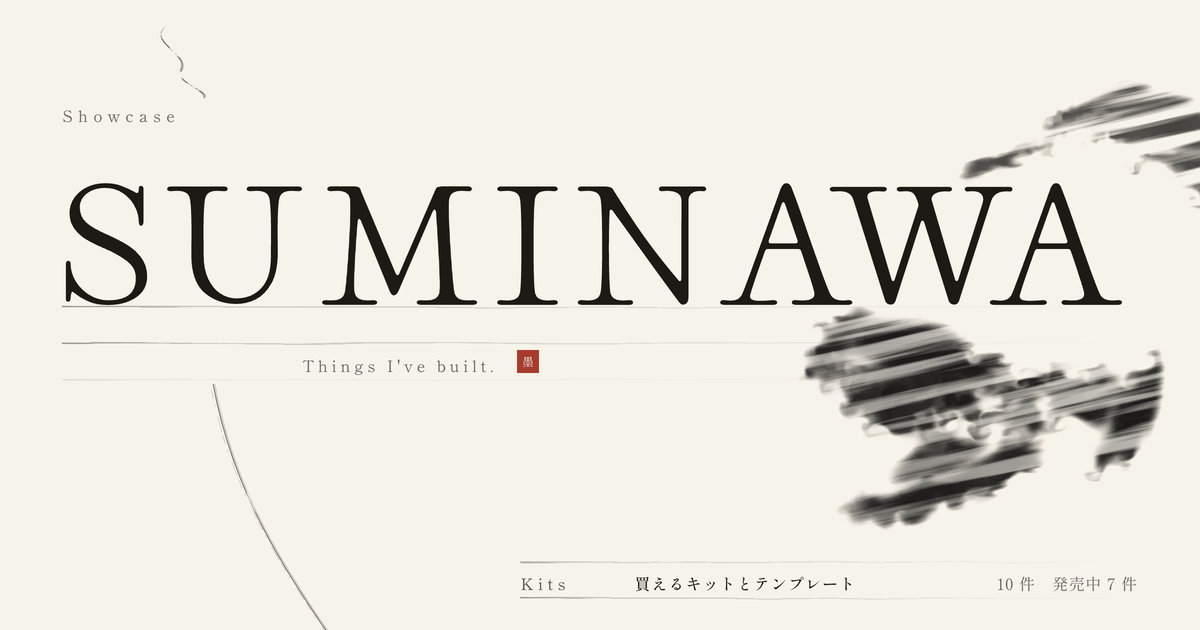
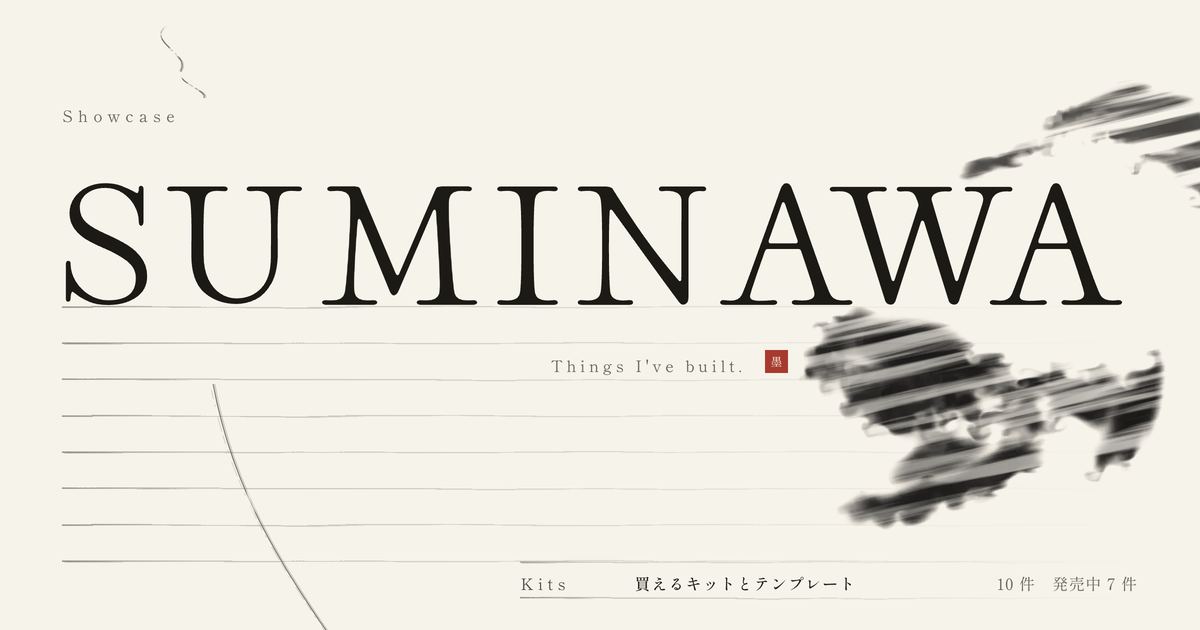
名乗りの帯の罫を入口の手前まで戻し、英文を墨の手前まで右へ送る
・名乗りの帯の罫（.mark::after）を、大字の足元から入口 3 行の手前まで
  紙幅いっぱいに敷き直した。下端の消え際で英文の行の下の罫が薄れて消えて
  いたのと、英文と入口のあいだが紙の地になっていたのを戻す
・英文と落款を、右上の墨の下の塊の手前ぎりぎりまで右へ送った
  （1280 で x=323 → 603、墨まで 15px）。768〜1920 の 5 幅で上限を測って
  直線で当てた。767 以下は左寄せのまま
・縦長の紙の /sites・/works で、字の欄が 130px ほどに痩せていたのを直した
  （図版の欄を空ける規則の詳細度が高く、一列に戻す規則を上書きしていた）

罫の密度: 字の無い罫が続く最長は トップ 1280 で 4 本・390 で 3 本
（公開中の元のハブは 4 本・4 本）。
英文と落款の字の箱に乗る墨の画素は 10 幅すべてで 0。

diff --git a/src/app/ryoushi.module.css b/src/app/ryoushi.module.css
@@ -668,24 +668,25 @@
  *   字の来ない所には引かない。
  */
 .mark::after {
-  /* 下から数えて 余白 1 ＋ 入口（--hi-gates-rows 行）＋ 送り 6 ＝ その上から
-     4 行ぶん ── 英文（と落款）が座る一行と、その上の 3 行（大字の足元の
-     二本を含む）。下から測るのは、下の寸法が全部罫の整数倍だからで、
-     上から測ると「Showcase」の送り（clamp）が半端を持ち込む。
-     ＊ 12 の決め打ちにしていたとき、入口が 8 行になる狭い紙では版面が
-     4 行ぶんずれ、名乗りの塊から罫が 1 本も見えなくなっていた */
-  bottom: calc(
-    var(--hi-kei-pitch) + var(--hi-gates-gap) +
-      var(--hi-gates-rows) * var(--hi-kei-pitch)
-  );
-  height: calc(3 * var(--hi-kei-pitch));
+  /*
+   * 名乗りの帯の罫。大字の足元から、入口 3 行の手前までを紙幅いっぱいに敷く ──
+   * 大字の足元の一本・送りの一本・英文（と落款）が座る一本、そして英文と入口の
+   * あいだの空き（--hi-gates-gap）の全部。
+   *
+   * 下から測る（下の寸法が全部罫の整数倍だから）。下端は入口の版面の上端
+   * （余白 1 ＋ 入口 --hi-gates-rows 行）で、そこから上へ 3 行 ＋ 空きぶん。
+   * 下端は消え際を作らない ── 作ると英文の下の罫や入口の手前の罫が
+   * マスクで薄れて消える（2026-09-23 に一度、英文の行の下が紙の地になった）。
+   * 入口の左は紙の地のまま（字の来ない帯に罫を並べない）。
+   */
+  bottom: calc((1 + var(--hi-gates-rows)) * var(--hi-kei-pitch));
+  height: calc(3 * var(--hi-kei-pitch) + var(--hi-gates-gap));
   background-position: 0 100%;
   mask-image: linear-gradient(
     to bottom,
     transparent 0,
     #000 calc(0.6 * var(--hi-kei-pitch)),
-    #000 calc(100% - 0.6 * var(--hi-kei-pitch)),
-    transparent 100%
+    #000 100%
   );
 }
 
@@ -744,7 +745,12 @@
      下から数えた罫の位相（.mark::before の 12 行）は動かない。 */
   /* 大字の直下に寄せる ── 空きは罫 1 本だけ（2026-09-23） */
   margin-top: var(--hi-kei-pitch);
-  margin-left: var(--hi-en-left, clamp(28px, 20vw, 280px));
+  /* 英文と落款は、右上の墨の下の塊の【手前ぎりぎり】まで右へ送る。
+     墨は大字（14.5vw）に結びつけてあるので、その行の高さでの墨の左端も
+     幅に比例して動く。768〜1920px の 5 幅で「墨の左端 − 英文〜落款の幅 − 12px」
+     を測り、それを下回る直線で当てた（1280px で x=603、上限まで 3px）。
+     狭い紙では下の --hi-en-left が左寄せに上書きする */
+  margin-left: var(--hi-en-left, calc(59.46vw - 225px));
 }
 
 /*
@@ -1913,7 +1919,11 @@
    * 紙の余白が右に残ることで、図版は「貼ってある一枚」のままでいられる。
    * 高さは 4 行ちょうどなので、上に回しても行の高さは罫の整数倍のまま。
    */
-  .entry {
+  .entry,
+  .rows:has(.withFig) .entry {
+    /* 図版の欄を空ける規則（.rows:has(.withFig) .entry）は詳細度が高いので、
+       ここで名指しして一列に戻す ── 戻さないと、縦長の紙で字の欄が 130px ほどに
+       痩せ、説明が一行 7〜8 字で折れていた（/sites・/works の 390px） */
     grid-template-columns: minmax(0, 1fr);
     column-gap: 0;
   }
